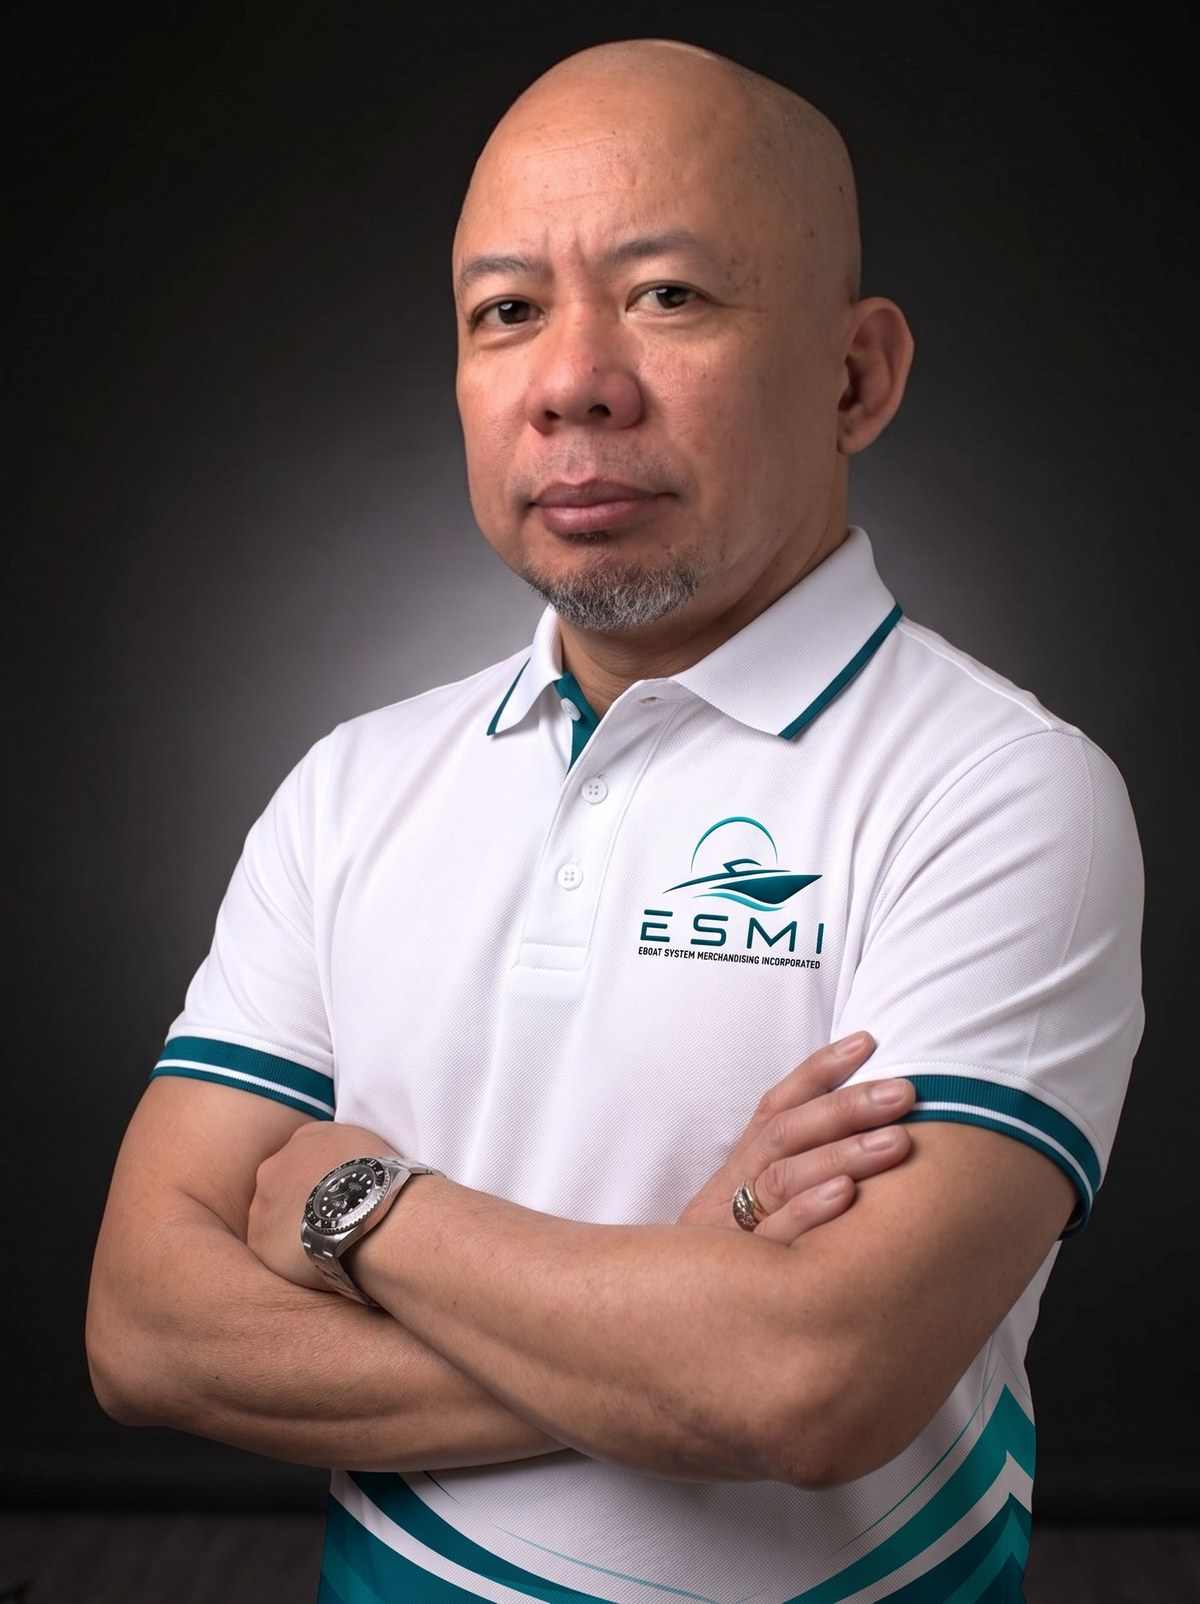
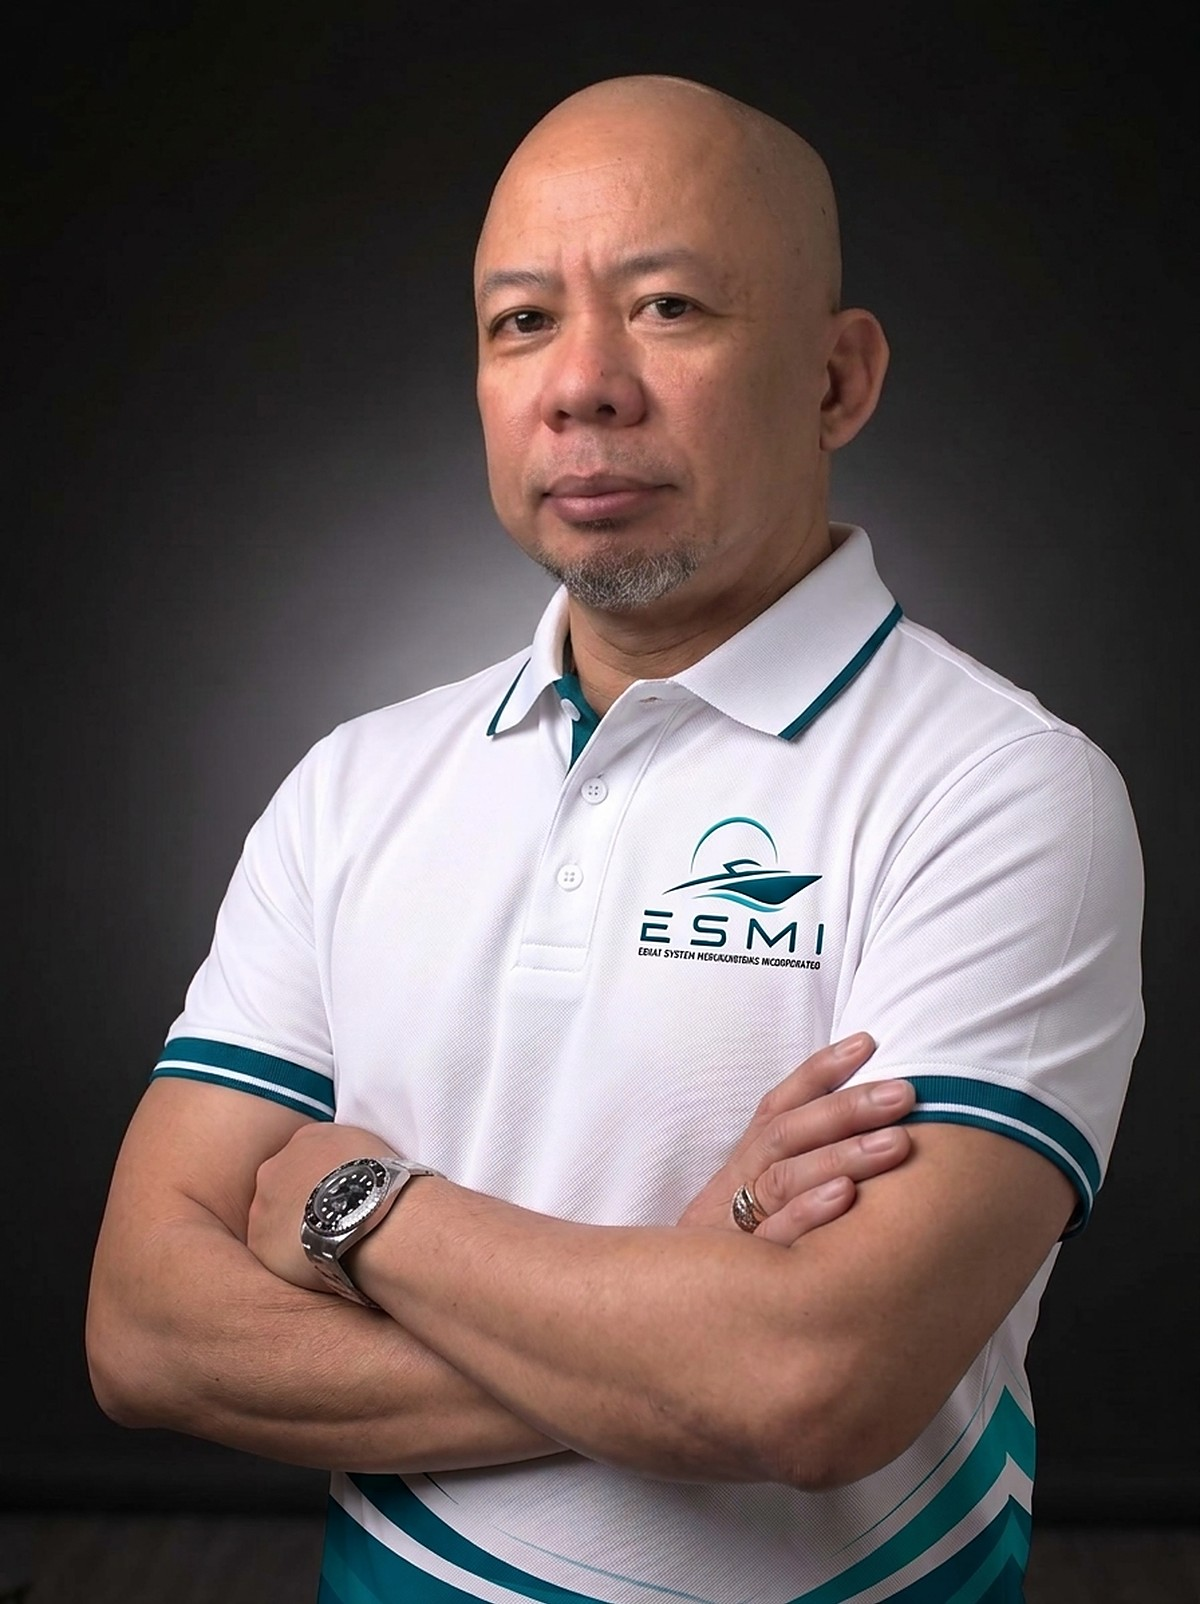
Footer heading "Let's build your solar boat"; natural proportions for June
- The closing call-to-action on every page now reads "Let's build your
  solar boat" instead of the interior-design "Let's talk about your project".
- June Delgado's studio portrait: head brought into natural proportion with
  his shoulders and body; face, ESMI polo, pose and lighting unchanged.

diff --git a/index.html b/index.html
@@ -371,7 +371,7 @@
 	
 	
 	<div id="echangeons" class="ano0">
-		<div class="echange"><a href="contact.html"><span>Let’s talk about <br>your project </span><br><b><img src="Images/Plus2.png" alt="Contact ESMI"></b></a></div>
+		<div class="echange"><a href="contact.html"><span>Let’s build <br>your solar boat </span><br><b><img src="Images/Plus2.png" alt="Contact ESMI"></b></a></div>
 		<ul class="pagesG">
 			<li class="any1"><a href="index.html" class="echangeMactif"><i>01</i><span>Home</span></a></li>
 			<li class="any1"><a href="about.html"><i>02</i><span>About</span></a></li>

diff --git a/about.html b/about.html
@@ -194,7 +194,7 @@
 
 
 	<div id="echangeons" class="ano0">
-		<div class="echange"><a href="contact.html"><span>Let’s talk about <br>your project </span><br><b><img src="Images/Plus2.png" alt="Contact ESMI"></b></a></div>
+		<div class="echange"><a href="contact.html"><span>Let’s build <br>your solar boat </span><br><b><img src="Images/Plus2.png" alt="Contact ESMI"></b></a></div>
 		<ul class="pagesG">
 			<li class="any1"><a href="index.html"><i>01</i><span>Home</span></a></li>
 			<li class="any1"><a href="about.html" class="echangeMactif"><i>02</i><span>About</span></a></li>

diff --git a/contact.html b/contact.html
@@ -117,7 +117,7 @@
 	
 	
 	<div id="echangeons" class="ano0">
-		<div class="echange"><a href="contact.html"><span>Let’s talk about <br>your project </span><br><b><img src="Images/Plus2.png" alt="Contact ESMI"></b></a></div>
+		<div class="echange"><a href="contact.html"><span>Let’s build <br>your solar boat </span><br><b><img src="Images/Plus2.png" alt="Contact ESMI"></b></a></div>
 		<ul class="pagesG">
 			<li class="any1"><a href="index.html"><i>01</i><span>Home</span></a></li>
 			<li class="any1"><a href="about.html"><i>02</i><span>About</span></a></li>

diff --git a/journal-coron-field-notes.html b/journal-coron-field-notes.html
@@ -218,7 +218,7 @@
 
 
 	<div id="echangeons" class="ano0">
-		<div class="echange"><a href="contact.html"><span>Let’s talk about <br>your project </span><br><b><img src="Images/Plus2.png" alt="Contact ESMI"></b></a></div>
+		<div class="echange"><a href="contact.html"><span>Let’s build <br>your solar boat </span><br><b><img src="Images/Plus2.png" alt="Contact ESMI"></b></a></div>
 		<ul class="pagesG">
 			<li class="any1"><a href="index.html"><i>01</i><span>Home</span></a></li>
 			<li class="any1"><a href="about.html"><i>02</i><span>About</span></a></li>

diff --git a/journal-fuel-costs.html b/journal-fuel-costs.html
@@ -218,7 +218,7 @@
 
 
 	<div id="echangeons" class="ano0">
-		<div class="echange"><a href="contact.html"><span>Let’s talk about <br>your project </span><br><b><img src="Images/Plus2.png" alt="Contact ESMI"></b></a></div>
+		<div class="echange"><a href="contact.html"><span>Let’s build <br>your solar boat </span><br><b><img src="Images/Plus2.png" alt="Contact ESMI"></b></a></div>
 		<ul class="pagesG">
 			<li class="any1"><a href="index.html"><i>01</i><span>Home</span></a></li>
 			<li class="any1"><a href="about.html"><i>02</i><span>About</span></a></li>

diff --git a/journal-modular-boat-transport.html b/journal-modular-boat-transport.html
@@ -218,7 +218,7 @@
 
 
 	<div id="echangeons" class="ano0">
-		<div class="echange"><a href="contact.html"><span>Let’s talk about <br>your project </span><br><b><img src="Images/Plus2.png" alt="Contact ESMI"></b></a></div>
+		<div class="echange"><a href="contact.html"><span>Let’s build <br>your solar boat </span><br><b><img src="Images/Plus2.png" alt="Contact ESMI"></b></a></div>
 		<ul class="pagesG">
 			<li class="any1"><a href="index.html"><i>01</i><span>Home</span></a></li>
 			<li class="any1"><a href="about.html"><i>02</i><span>About</span></a></li>

diff --git a/journal-palawan-tourism.html b/journal-palawan-tourism.html
@@ -217,7 +217,7 @@
 
 
 	<div id="echangeons" class="ano0">
-		<div class="echange"><a href="contact.html"><span>Let’s talk about <br>your project </span><br><b><img src="Images/Plus2.png" alt="Contact ESMI"></b></a></div>
+		<div class="echange"><a href="contact.html"><span>Let’s build <br>your solar boat </span><br><b><img src="Images/Plus2.png" alt="Contact ESMI"></b></a></div>
 		<ul class="pagesG">
 			<li class="any1"><a href="index.html"><i>01</i><span>Home</span></a></li>
 			<li class="any1"><a href="about.html"><i>02</i><span>About</span></a></li>

diff --git a/journal-registering-electric-boat.html b/journal-registering-electric-boat.html
@@ -218,7 +218,7 @@
 
 
 	<div id="echangeons" class="ano0">
-		<div class="echange"><a href="contact.html"><span>Let’s talk about <br>your project </span><br><b><img src="Images/Plus2.png" alt="Contact ESMI"></b></a></div>
+		<div class="echange"><a href="contact.html"><span>Let’s build <br>your solar boat </span><br><b><img src="Images/Plus2.png" alt="Contact ESMI"></b></a></div>
 		<ul class="pagesG">
 			<li class="any1"><a href="index.html"><i>01</i><span>Home</span></a></li>
 			<li class="any1"><a href="about.html"><i>02</i><span>About</span></a></li>

diff --git a/journal-solar-canopy.html b/journal-solar-canopy.html
@@ -218,7 +218,7 @@
 
 
 	<div id="echangeons" class="ano0">
-		<div class="echange"><a href="contact.html"><span>Let’s talk about <br>your project </span><br><b><img src="Images/Plus2.png" alt="Contact ESMI"></b></a></div>
+		<div class="echange"><a href="contact.html"><span>Let’s build <br>your solar boat </span><br><b><img src="Images/Plus2.png" alt="Contact ESMI"></b></a></div>
 		<ul class="pagesG">
 			<li class="any1"><a href="index.html"><i>01</i><span>Home</span></a></li>
 			<li class="any1"><a href="about.html"><i>02</i><span>About</span></a></li>

diff --git a/journal.html b/journal.html
@@ -177,7 +177,7 @@
 
 
 	<div id="echangeons" class="ano0">
-		<div class="echange"><a href="contact.html"><span>Let’s talk about <br>your project </span><br><b><img src="Images/Plus2.png" alt="Contact ESMI"></b></a></div>
+		<div class="echange"><a href="contact.html"><span>Let’s build <br>your solar boat </span><br><b><img src="Images/Plus2.png" alt="Contact ESMI"></b></a></div>
 		<ul class="pagesG">
 			<li class="any1"><a href="index.html"><i>01</i><span>Home</span></a></li>
 			<li class="any1"><a href="about.html"><i>02</i><span>About</span></a></li>

diff --git a/portfolio.html b/portfolio.html
@@ -213,7 +213,7 @@
 
 
 	<div id="echangeons" class="ano0">
-		<div class="echange"><a href="contact.html"><span>Let’s talk about <br>your project </span><br><b><img src="Images/Plus2.png" alt="Contact ESMI"></b></a></div>
+		<div class="echange"><a href="contact.html"><span>Let’s build <br>your solar boat </span><br><b><img src="Images/Plus2.png" alt="Contact ESMI"></b></a></div>
 		<ul class="pagesG">
 			<li class="any1"><a href="index.html"><i>01</i><span>Home</span></a></li>
 			<li class="any1"><a href="about.html"><i>02</i><span>About</span></a></li>

diff --git a/services.html b/services.html
@@ -179,7 +179,7 @@
 
 
 	<div id="echangeons" class="ano0">
-		<div class="echange"><a href="contact.html"><span>Let’s talk about <br>your project </span><br><b><img src="Images/Plus2.png" alt="Contact ESMI"></b></a></div>
+		<div class="echange"><a href="contact.html"><span>Let’s build <br>your solar boat </span><br><b><img src="Images/Plus2.png" alt="Contact ESMI"></b></a></div>
 		<ul class="pagesG">
 			<li class="any1"><a href="index.html"><i>01</i><span>Home</span></a></li>
 			<li class="any1"><a href="about.html"><i>02</i><span>About</span></a></li>
